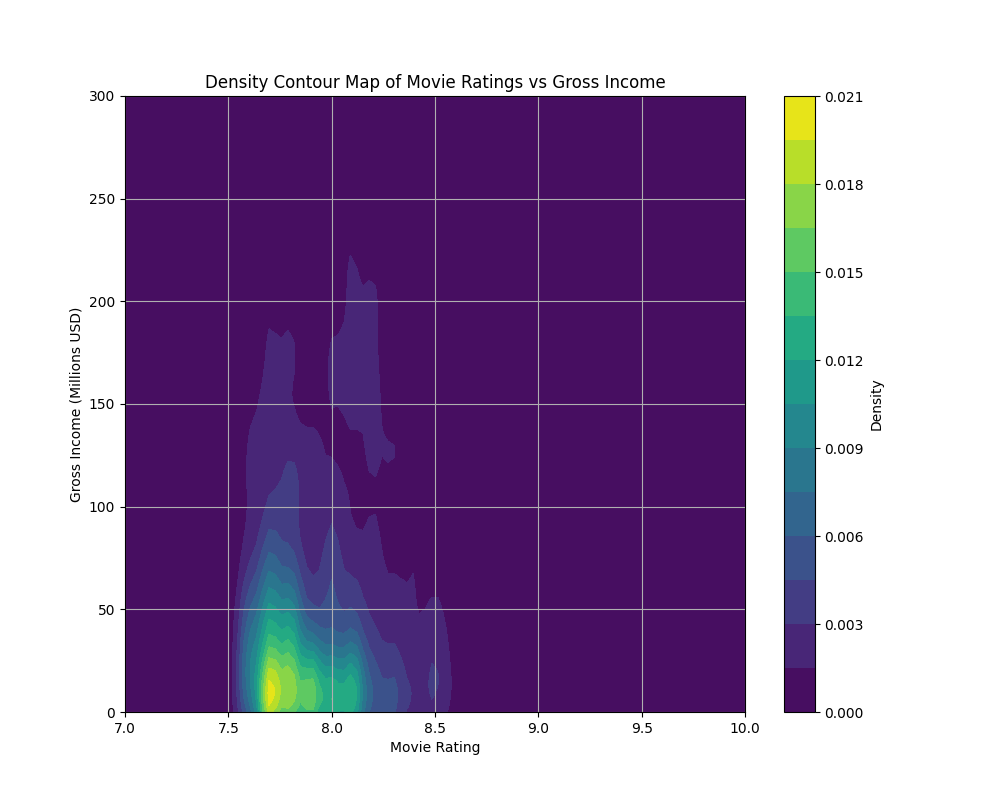
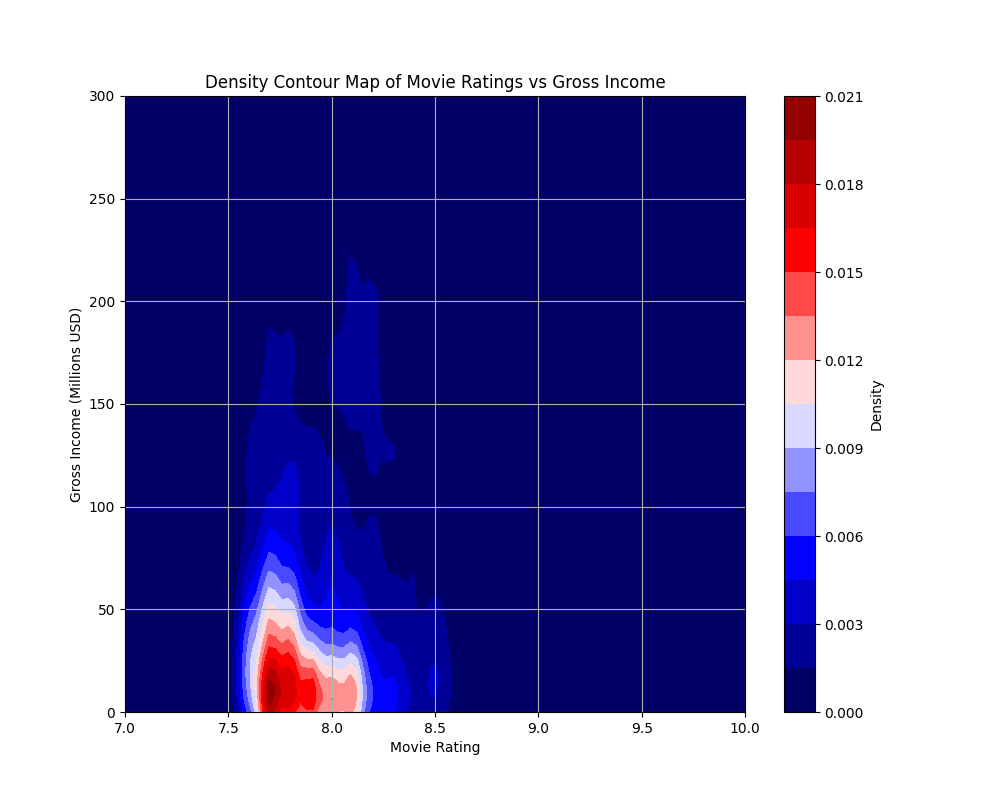
changed to reletive dirs

diff --git a/Corrlegram.py b/Corrlegram.py
@@ -12,7 +12,7 @@ def density_estimation(yMin,yMax,xMin,xMax,m1, m2, bandwidth=0.1):
     Z = np.reshape(kernel(positions).T, X.shape)
     return X, Y, Z
 
-df = pd.read_csv('/home/quinn/DataSci/archive/Top_1000_IMDb_movies_New_version.csv')
+df = pd.read_csv('archive/Top_1000_IMDb_movies_New_version.csv')
 # Clean data by removing commas
 df['Votes'] = df['Votes'].str.replace(',', '').astype(float)
 df['Gross'] = pd.to_numeric(df['Gross'].str.replace(',', ''), errors='coerce')
@@ -27,7 +27,7 @@ numeric_columns = ['Watch Time', 'Movie Rating', 'Metascore of movie', 'Gross', 
 corr_matrix_cleaned = df_cleaned[numeric_columns].corr()
 plt.figure(figsize=(10, 8))
 sns.heatmap(corr_matrix_cleaned, annot=True, cmap='seismic', linewidths=0.5, center = 0)
-plt.savefig('/home/quinn/DataSci/correlogram.png')
+plt.savefig('Corrlegram.png')
 plt.clf()
 #box plot metascore and gross
 #calculating iqr
@@ -44,7 +44,7 @@ sns.regplot(x='Metascore of movie', y='Gross', data=df_cleaned,line_kws={"color"
 plt.xlabel('Metascore')
 plt.ylabel('Gross Revenue')
 plt.title('Scatter Plot of Gross Revenue by Metascore')
-plt.savefig('/home/quinn/DataSci/ScatterMetaGross.png')
+plt.savefig('ScatterMetaGross.png')
 plt.clf()
 
 #Density of Movie rating and Gross income
@@ -52,13 +52,13 @@ xMin, xMax = 7,10
 yMin, yMax = 0,300
 plt.figure(figsize=(10,8))
 X, Y, Z = density_estimation(yMin, yMax,xMin,xMax,df_cleaned['Movie Rating'],df_cleaned['Gross'],.15)
-cp = plt.contourf(X, Y, Z, levels=15, cmap='viridis')
+cp = plt.contourf(X, Y, Z, levels=15, cmap='seismic')
 plt.colorbar(cp, label='Density')
 plt.title('Density Contour Map of Movie Ratings vs Gross Income')
 plt.xlabel('Movie Rating')
 plt.ylabel('Gross Income (Millions USD)')
 plt.grid(True)
-plt.savefig('/home/quinn/DataSci/DensityRatingGross.png')
+plt.savefig('DensityRatingGross.png')
 plt.clf()
 
 #Density of Metascore and Gross
@@ -66,13 +66,13 @@ xMin, xMax = 70,100
 
 plt.figure(figsize=(10,8))
 X, Y, Z = density_estimation(yMin, yMax,xMin,xMax,df_cleaned['Metascore of movie'],df_cleaned['Gross'],.21)
-cp = plt.contourf(X, Y, Z, levels=15, cmap='viridis')
+cp = plt.contourf(X, Y, Z, levels=15, cmap='seismic')
 plt.colorbar(cp, label='Density')
 plt.title('Density Contour Map of Movie Ratings vs Gross Income')
 plt.xlabel('Metascore of movie')
 plt.ylabel('Gross Income (Millions USD)')
 plt.grid(True)
-plt.savefig('/home/quinn/DataSci/DensityMetascoreGross.png')
+plt.savefig('DensityMetascoreGross.png')
 plt.clf()
 
 
@@ -82,7 +82,7 @@ sns.regplot(x='Movie Rating', y='Gross', data=df_cleaned,line_kws={"color": "red
 plt.xlabel('Movie Rating')
 plt.ylabel('Gross Revenue')
 plt.title('Scatter Plot of Gross Revenue by Movie Rating')
-plt.savefig('/home/quinn/DataSci/ScatterAudianceGross.png')
+plt.savefig('ScatterAudianceGross.png')
 plt.clf()
 
 
@@ -92,7 +92,7 @@ sns.regplot(x='Metascore of movie', y='Gross', data=df_no_outliers,line_kws={"co
 plt.xlabel('Metascore')
 plt.ylabel('Gross Revenue')
 plt.title('Scatter Plot of Gross Revenue by Metascore')
-plt.savefig('/home/quinn/DataSci/ScatterOutliersRemovedMetaGross.png')
+plt.savefig('ScatterOutliersRemovedMetaGross.png')
 plt.clf()
 
 #box plot showing 
@@ -107,7 +107,7 @@ sns.boxplot(x='Metascore_binned', y='Gross', data=df_cleaned)
 plt.xlabel('Metascore Category')
 plt.ylabel('Gross Revenue')
 plt.title('Box Plot of Gross Revenue by Binned Metascore')
-plt.savefig('/home/quinn/DataSci/BoxPlotMetaGross.png')
+plt.savefig('BoxPlotMetaGross.png')
 plt.clf()
 
 
